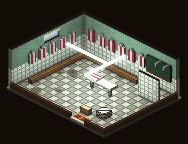
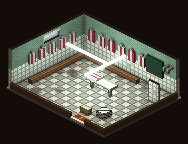
Le vestiaire : la place du tableau noir sort de derrière les douches
Celui qui parle au groupe se tenait derrière la cloison des douches : sans
tête à l'écran, sa bulle tombait. Le tableau noir glisse vers la gauche, la
cloison des douches devient basse et se range dans le coin.

Claude-Session: https://claude.ai/code/session_01H9n7ETVAi4fT9Fsgymdv2a

Changed region(s): [[0.7181, 0.4167, 0.9309, 0.6944]]

diff --git a/docs/design/pixel_iso/pieces/stade.js b/docs/design/pixel_iso/pieces/stade.js
@@ -15,19 +15,20 @@ module.exports = {
     for (const [x, n] of [[6, 1], [12, 2], [18, 3], [24, 4]]) K.place('banc_' + n, x, 5, { pose: 'assis', regarde: 'droite' });
     for (const [y, n] of [[10, 5], [18, 6], [26, 7]]) K.place('banc_' + n, 5, y, { pose: 'assis', regarde: 'droite' });
     K.objet('casier', 'Ton casier', 3, 20, 6);
-    // le tableau noir des consignes
-    K.boite(32, 0, 7, 44, 1, 14, M.BOARD); K.boite(32, 0, 6, 44, 1, 7, M.WOOD_DARK);
-    K.objet('tableau', 'Le tableau noir', 38, 1, 10);
-    K.place('tableau', 38, 6, { regarde: 'gauche', pour: 'visiteur' });
+    // le tableau noir des consignes (devant, la place de celui qui parle au groupe : visible,
+    // pas derrière la cloison des douches)
+    K.boite(32, 0, 7, 40, 1, 14, M.BOARD); K.boite(32, 0, 6, 40, 1, 7, M.WOOD_DARK);
+    K.objet('tableau', 'Le tableau noir', 36, 1, 10);
+    K.place('tableau', 35, 7, { regarde: 'gauche', pour: 'visiteur' });
     // la table de massage, le Doc
     K.boite(20, 16, 0, 21, 17, 4, M.METAL); K.boite(29, 16, 0, 30, 17, 4, M.METAL);
     K.boite(19, 14, 4, 31, 18, 5, M.WHITE); K.boite(20, 14, 5, 24, 18, 6, M.TOWEL);
     K.objet('massage', 'La table du Doc', 25, 16, 5);
     K.place('doc', 25, 21, { regarde: 'gauche', pour: 'sabatier' });
-    // les douches, carrelées, dans le coin du fond à droite
-    K.boite(36, 8, 0, 46, 9, 12, M.FAIENCE);
-    for (const x of [38, 42]) { K.boite(x, 0, 13, x + 1, 3, 14, M.METAL); K.voxel(x, 2, 12, M.CHROME); }
-    K.objet('douches', 'Les douches', 40, 4, 6);
+    // les douches, carrelées, dans le coin du fond à droite (une cloison basse, qui ne cache rien)
+    K.boite(41, 8, 0, 46, 9, 10, M.FAIENCE);
+    for (const x of [42, 44]) { K.boite(x, 0, 13, x + 1, 3, 14, M.METAL); K.voxel(x, 2, 12, M.CHROME); }
+    K.objet('douches', 'Les douches', 43, 4, 6);
     // le sac de ballons, les plots, la valise du Doc
     K.boite(36, 26, 0, 40, 30, 3, M.BALLS);
     K.objet('ballons', 'Le sac de ballons', 38, 28, 3);
